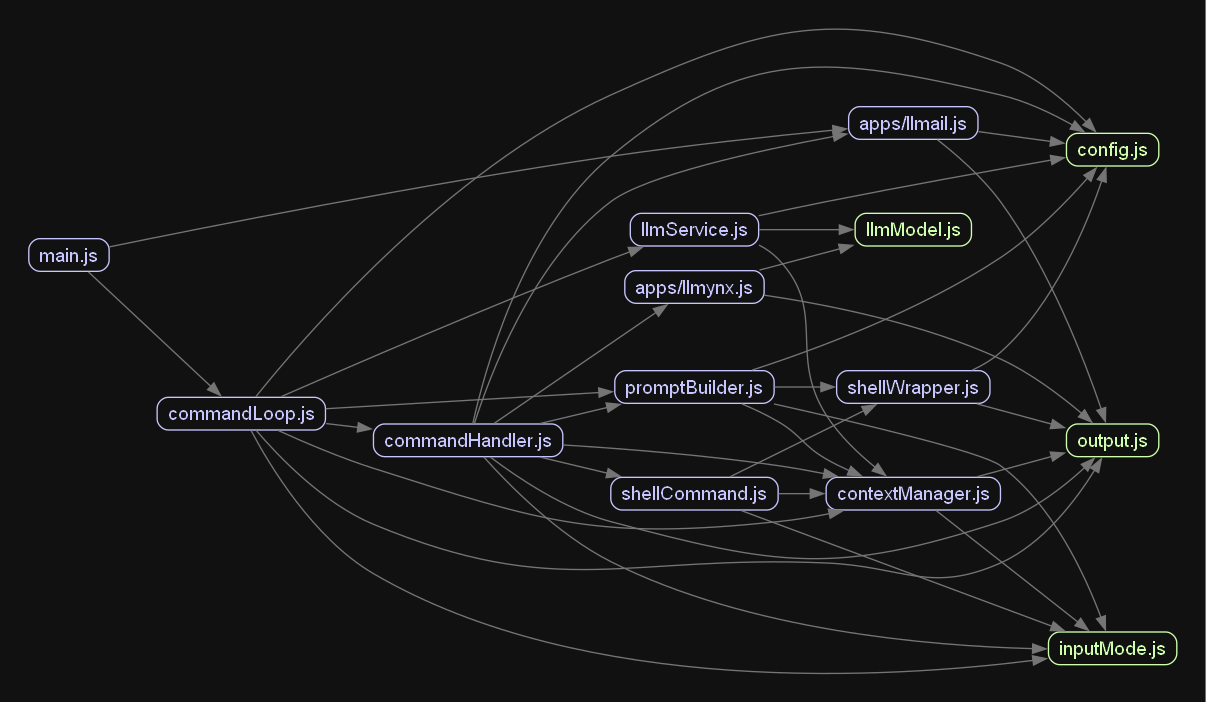
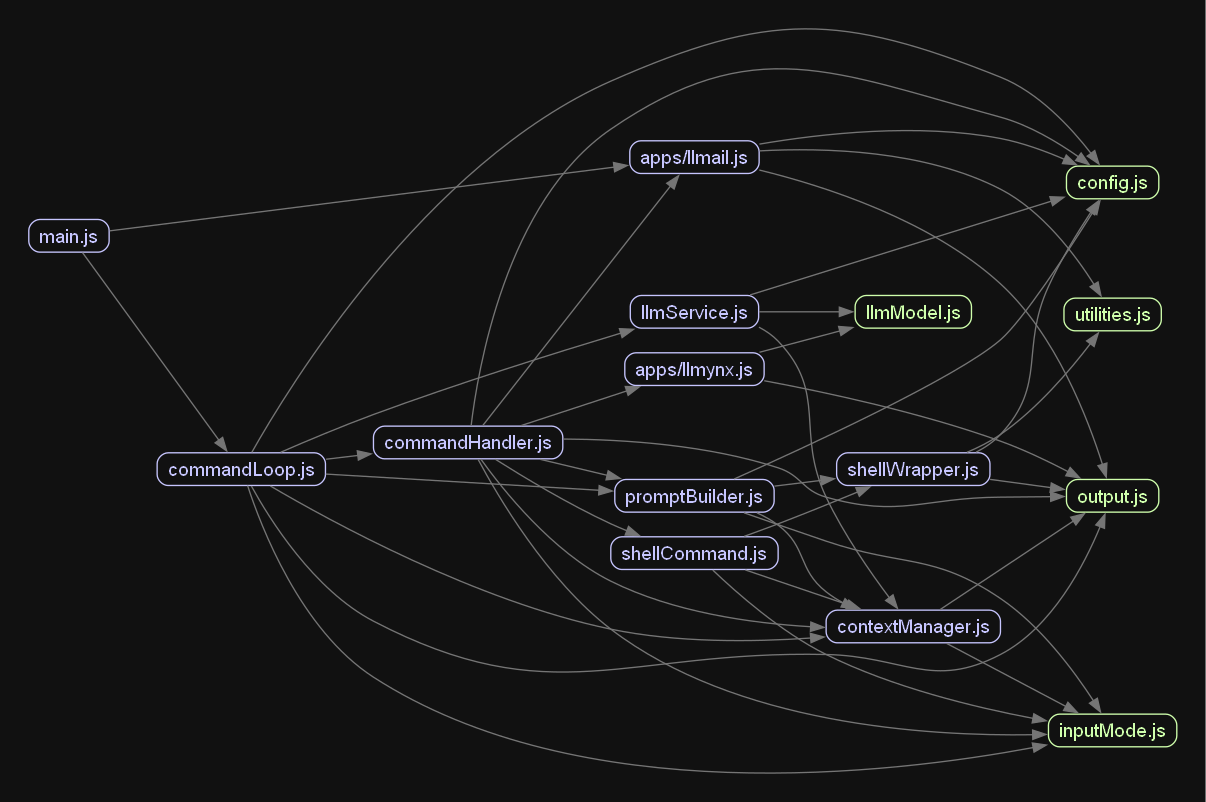
Moved naisys to host path conversion to its own file Updated packages Updated readme with getting started section

diff --git a/src/shellWrapper.ts b/src/shellWrapper.ts
@@ -3,6 +3,7 @@ import * as fs from "fs";
 import * as os from "os";
 import * as config from "./config.js";
 import * as output from "./output.js";
+import { naisysToHostPath } from "./utilities.js";
 
 type CommandResponse = {
   value: string;
@@ -210,11 +211,7 @@ function resetProcess() {
  * May also help with common escaping errors
  */
 function runCommandFromScript(command: string) {
-  const scriptPathUnix = `${config.rootFolder}/home/${config.username}/.command.tmp.sh`;
-
-  const scriptPathWin = scriptPathUnix
-    .replace("/mnt/c/", "C:\\")
-    .replace(/\//g, "\\");
+  const scriptPath = `${config.rootFolder}/home/${config.username}/.command.tmp.sh`;
 
   // set -e causes the script to exit on any error
   const scriptContent = `#!/bin/bash
@@ -222,10 +219,8 @@ set -e
 cd ${_currentPath}
 ${command.trim()}`;
 
-  const scriptPath = os.platform() === "win32" ? scriptPathWin : scriptPathUnix;
-
   // create/writewrite file
-  fs.writeFileSync(scriptPath, scriptContent);
+  fs.writeFileSync(naisysToHostPath(scriptPath), scriptContent);
 
-  return `bash ${scriptPathUnix}`;
+  return `bash ${scriptPath}`;
 }

diff --git a/src/apps/llmail.ts b/src/apps/llmail.ts
@@ -1,8 +1,9 @@
+import * as fs from "fs";
 import { open } from "sqlite";
 import sqlite3 from "sqlite3";
 import * as config from "../config.js";
-import * as fs from "fs";
 import * as output from "../output.js";
+import { naisysToHostPath } from "../utilities.js";
 
 // checking mail should probably be done in a 'cycle' where the llm reads, cleans and decides what actions to take
 
@@ -46,7 +47,7 @@ Command:
     Hey Bob, I agree let's do that
 */
 
-const _dbFilePath = `${config.rootFolder}/var/llmail.db`;
+const _dbFilePath = naisysToHostPath(`${config.rootFolder}/var/llmail.db`);
 
 export async function init() {
   const createDb = !fs.existsSync(_dbFilePath);

diff --git a/src/commandHandler.ts b/src/commandHandler.ts
@@ -90,7 +90,7 @@ export async function consoleInput(prompt: string, consoleInput: string) {
 
         break;
       }
-      case "endsession":
+      case "endsession": {
         previousSessionNotes = cmdArgs;
         output.comment(
           "------------------------------------------------------",
@@ -98,6 +98,7 @@ export async function consoleInput(prompt: string, consoleInput: string) {
         nextCommandAction = NextCommandAction.EndSession;
         processNextLLMpromptBlock = false;
         break;
+      }
 
       case "talk": {
         const talkMsg = cmdArgs;

diff --git a/src/utilities.ts b/src/utilities.ts
@@ -1,0 +1,13 @@
+import * as os from "os";
+
+/** Take a NAISYS path and convert to something that can be
+ *  opened by the host with the native fs library and such */
+export function naisysToHostPath(filePath: string) {
+  if (os.platform() === "win32" && filePath.startsWith("/mnt/")) {
+    // "/mnt/c/" -> "c:/"
+    filePath = filePath.substring(5);
+    return filePath[0] + ":" + filePath.substring(1);
+  } else {
+    return filePath;
+  }
+}

diff --git a/README.md b/README.md
@@ -7,7 +7,7 @@ Since the LLM has a limited context, a shell built for it should take this into 
 perform 'context friendly' operations. For example reading/writing a file can't use a typical editor like
 vim or nano so point the LLM to use cat to read/write files in a single operation.
 
-Node.js is used to create a simple shell environment for the LLM that
+#### Node.js is used to create a simple shell environment for the LLM that
 
 - Helps the LLM keep track of its current context size
 - Give the LLM the ability to 'reset' the context and carry over information to a new session/context
@@ -15,7 +15,20 @@ Node.js is used to create a simple shell environment for the LLM that
 - Prevent the context from being polluted by catching common errors like output that includes the command prompt itself
 - Allows communication with the LLM by way of a 'debug' prompt after each run of the LLM
 
-Console Colors
+
+
+#### Getting started
+
+- Install Node.js
+- Clone this repository
+- Run `npm install` to install dependencies
+- Configure the `.env` file
+- If on Windows:
+    - Install WSL (Windows Subsystem for Linux)
+    - The root folder should be set to the WSL path
+    - So `C:\naisys` should be `/mnt/c/naisys` in the `.env` file
+
+#### Console Colors
 
 - Purple: Response from LLM, added to context
 - White: Generated locally or from a real shell, added to context
